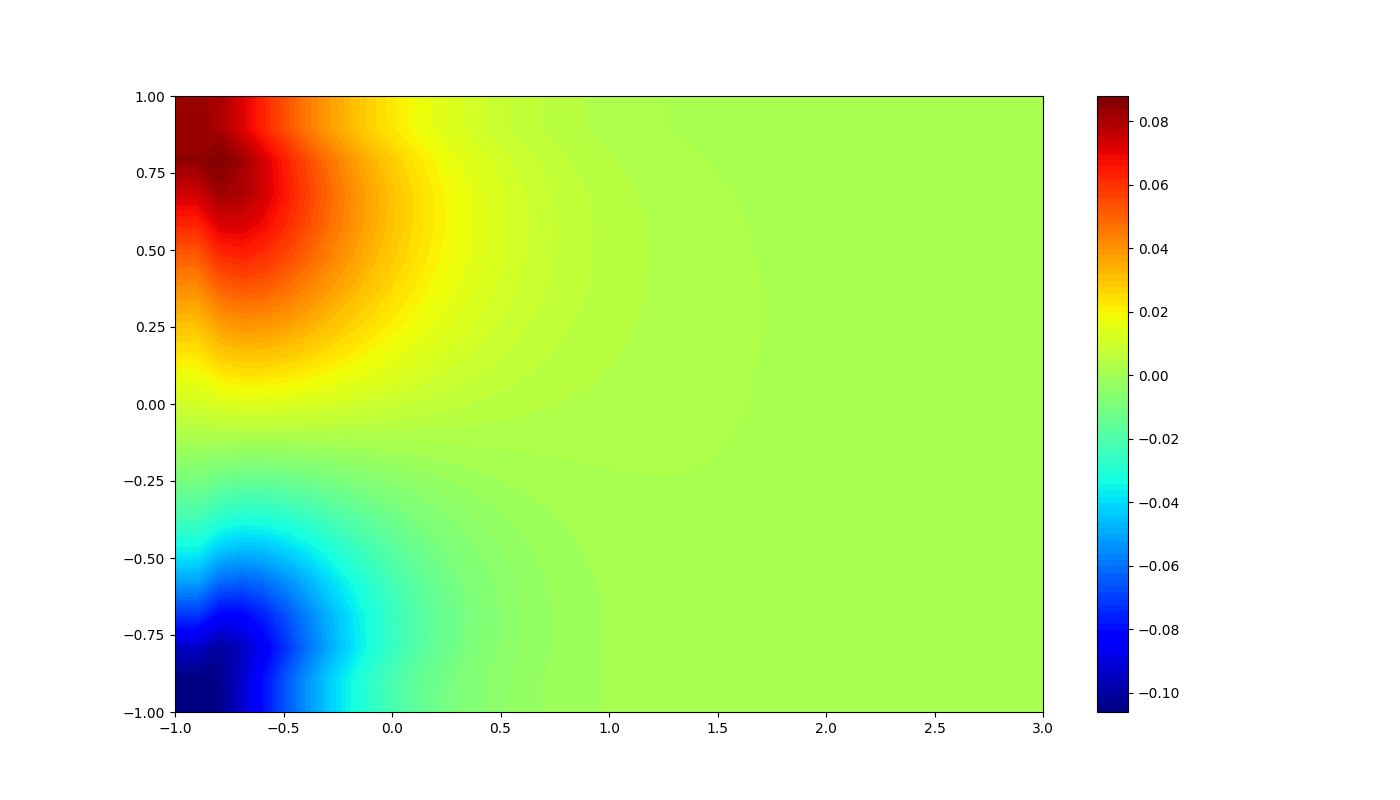
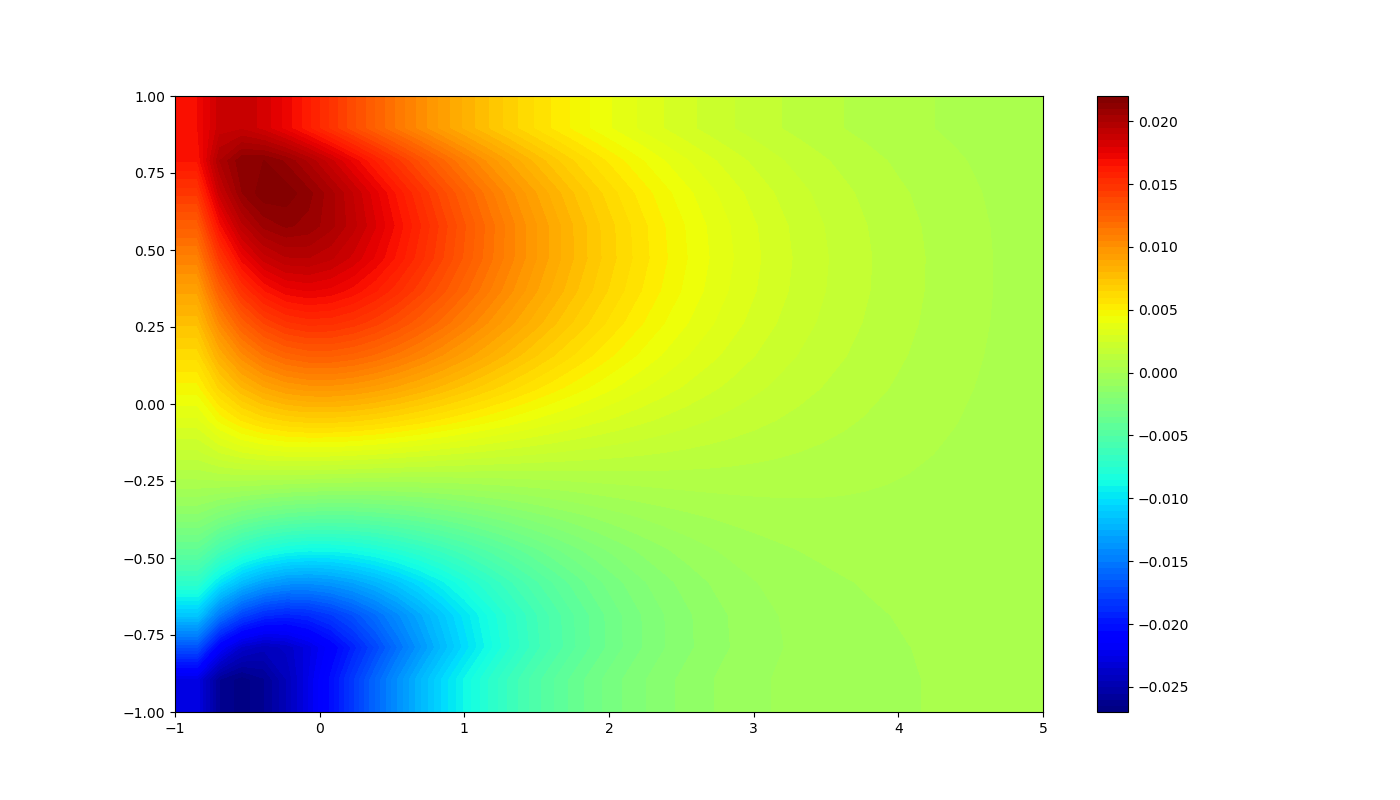
new

diff --git a/navstokes.py b/navstokes.py
@@ -4,12 +4,8 @@ import scipy.sparse as sp
 from libhelper import relerr
 import matplotlib.pyplot as plt
 from mpl_toolkits import mplot3d
-import sys
+from input_params import *
 
-#from scipy.fftpack import dct,idct,dst,idst
-import matplotlib.pyplot as plt
-from mpl_toolkits import mplot3d
-import sys
 # Timestepping Methods
 def rk2(u,v,p,dt,hx,hy,nu,idx,idy,advscheme):
     su1 = advscheme(u,[u,v],idx,idy,hx,hy,dt) + dt*(nu*lap(u,idx,idy,hx,hy) -\
@@ -79,8 +75,7 @@ def poifd(f,hy,hx,nx,ny):
     #krylov methods
     ubicgs,itr=spl.bicgstab(L,f,tol=1e-8)
     ubicgs,itr=spl.bicgstab(L,f,tol=1e-7)
-#    print("\r iter = %d"%itr , end = " ")
-    
+#    print("\r iter = %d"%itr , end = " "    
     return ubicgs.reshape(nx,ny)
 
 def lap(u,idx,idy,hx,hy):
@@ -133,10 +128,6 @@ def gradp(p,idx,idy,hx,hy,component):
 
 # --------------------------------------------------------------------------
 monitorfile = open("../timemonitor","w")
-nx = int(sys.argv[1])
-ny = int(sys.argv[2])
-tfinal = float(sys.argv[3])
-dt = float(sys.argv[4])
 
 x0 = -1 ; xn = 3
 x0 = -1 ; xn = 5
@@ -184,12 +175,14 @@ timestep = 0
 t = 0
 udiff = 1
 pdiff = 1
-tol = float(sys.argv[5])
+'''
 while (t < tfinal):
 timestep =0
 t = 0
 udiff = 1
 pdiff = 1
+'''
+udiff = 1; pdiff = udiff;
 while (pdiff > 1e-4 and udiff > 1e-4):
     
     tmpp = ppe(p,u,v,dt,idx,idy,hx,hy,rho)
@@ -245,8 +238,8 @@ fig = plt.figure(figsize=(14,8))
 ax = fig.add_subplot(1,1,1)
 plt1 = ax.contourf(xx,yy,u[idx,idy],100,cmap='jet')
 
-#visualization
-xx = xx[idx,idy]; yy = yy[idx,idy]
+#other visualizations
+#xx = xx[idx,idy]; yy = yy[idx,idy]
 fig = plt.figure(figsize=(14,8))
 ax = fig.add_subplot(1,1,1)
 plt1 = ax.contourf(xx,yy,np.sqrt(u[idx,idy]**2 + v[idx,idy]**2),100,cmap='jet')

diff --git a/input_params.py b/input_params.py
@@ -1,0 +1,22 @@
+def input_args():	
+	file = open("input.in","r")
+	print(file.readline())
+	print(file.readline())
+	print(file.readline())
+	global nx,ny,finaltime, dt,tol
+	for line in file:
+		word,num=line.split(" ")
+		if word=="nx":
+			nx = int(num)
+		elif word=="ny":
+			ny = int(num)
+		elif word=="finaltime":
+			finaltime = float(num)
+		elif word=="dt":
+			dt = float(num)
+		else:
+			tol= float(num)
+		print(word+" "+num)
+
+input_args()
+print(nx)
